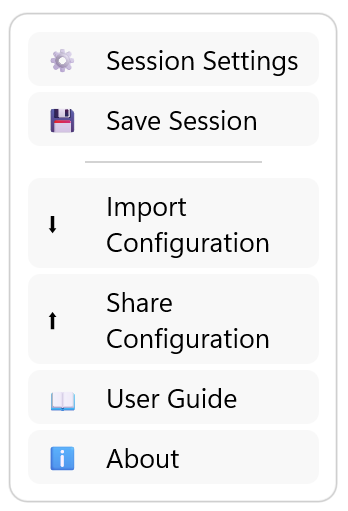
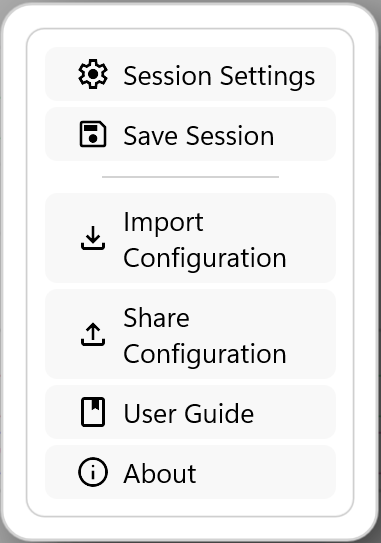
Refresh Games Options menu help image

diff --git a/help/08-options.md b/help/08-options.md
@@ -7,7 +7,7 @@ Select **Options** (⋮) on the tab you want to manage. The examples show the di
 <div class="options-menu-grid">
   <figure>
     <figcaption>Games</figcaption>
-    <img src="images/options-menu.png" alt="Games menu with Session Settings and Save Session">
+    <img src="images/options-menu.png?v=4.1.1" alt="Games Options menu with Session Settings, Save Session, Import Configuration, Share Configuration, User Guide and About">
   </figure>
   <figure>
     <figcaption>Players</figcaption>
